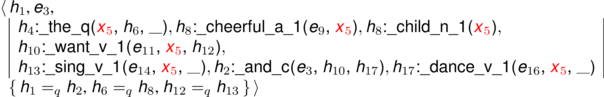
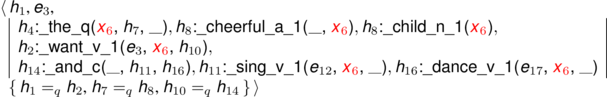
fix control example (as if i had grabbed the wrong reading initially)
git-svn-id: http://svn.delph-in.net/erg/tags/1214@25992 3df82f5b-d43a-0410-af33-fce91db48ec5

diff --git a/www/esd/essence/the-cheerful-children-wanted-to-sing-and-dance.tex b/www/esd/essence/the-cheerful-children-wanted-to-sing-and-dance.tex
@@ -19,29 +19,30 @@
 
 \siblock{\sh{1}}{\svar{e}{3}{}}{%
   \sep{\sh{4}}{\spred{\_the\_q\slnkc{0}{3}}}{%
-    \srole{ARG0}{\color{red}\svar{x}{5}{\svp{PERS}{3}, \svp{NUM}{pl}, \svp{IND}{+}}},
-    \srole{RSTR}{\svar{h}{6}{}},
-    \srole{BODY}{\srule{}}}, 
+    \srole{ARG0}{\color{red}\svar{x}{6}{\svp{PERS}{3}, \svp{NUM}{pl}, \svp{IND}{+}}},
+    \srole{RSTR}{\svar{h}{7}{}},
+    \srole{BODY}{\srule{}}}, %\\
   \sep{\sh{8}}{\spred{\_cheerful\_a\_1\slnkc{4}{12}}}{%
-    \srole{ARG0}{\svar{e}{9}{\svp{SF}{prop}, \svp{TENSE}{untensed}, \svp{MOOD}{indicative}, \svp{PROG}{-}, \svp{PERF}{-}}},
-    \srole{ARG1}{\color{red}\svar{x}{5}{}}}, 
+    \srole{ARG0}{\srule{}},
+    \srole{ARG1}{\color{red}\svar{x}{6}{}}}, %\\
   \sep{\sh{8}}{\spred{\_child\_n\_1\slnkc{13}{21}}}{%
-    \srole{ARG0}{\color{red}\svar{x}{5}{}}},\\
-  \sep{\sh{10}}{\spred{\_want\_v\_1\slnkc{22}{26}}}{%
-    \srole{ARG0}{\svar{e}{11}{\svp{SF}{prop}, \svp{TENSE}{pres}, \svp{MOOD}{indicative}, \svp{PROG}{-}, \svp{PERF}{-}}},
-    \srole{ARG1}{\color{red}\svar{x}{5}{}},
-    \srole{ARG2}{\svar{h}{12}{}}},\\
-  \sep{\sh{13}}{\spred{\_sing\_v\_1\slnkc{30}{34}}}{%
-    \srole{ARG0}{\svar{e}{14}{\svp{SF}{prop}, \svp{TENSE}{untensed}, \svp{MOOD}{indicative}, \svp{PROG}{-}, \svp{PERF}{-}}},
-    \srole{ARG1}{\color{red}\svar{x}{5}{}},
-    \srole{ARG2}{\srule{}}},
-  \sep{\sh{2}}{\spred{\_and\_c\slnkc{35}{38}}}{%
-    \srole{ARG0}{\svar{e}{3}{\svp{SF}{prop}, \svp{TENSE}{pres}, \svp{MOOD}{indicative}, \svp{PROG}{-}, \svp{PERF}{-}}},
-    \srole{ARG1}{\svar{h}{10}{}},
-    \srole{ARG2}{\svar{h}{17}{}}},
-  \sep{\sh{17}}{\spred{\_dance\_v\_1\slnkc{39}{45}}}{%
-    \srole{ARG0}{\svar{e}{16}{}},
-    \srole{ARG1}{\color{red}\svar{x}{5}{}},
+    \srole{ARG0}{\color{red}\svar{x}{6}{}}},\\
+  \sep{\sh{2}}{\spred{\_want\_v\_1\slnkc{22}{28}}}{%
+    \srole{ARG0}{\svar{e}{3}{\svp{SF}{prop}, \svp{TENSE}{past}, \svp{MOOD}{indicative}, \svp{PROG}{-}, \svp{PERF}{-}}},
+    \srole{ARG1}{\color{red}\svar{x}{6}{}},
+    \srole{ARG2}{\svar{h}{10}{}}},\\
+  \sep{\sh{14}}{\spred{\_and\_c\slnkc{37}{40}}}{%
+    \srole{ARG0}{\srule{}},
+    \srole{ARG1}{\svar{h}{11}{}},
+    \srole{ARG2}{\svar{h}{16}{}}},
+  \sep{\sh{11}}{\spred{\_sing\_v\_1\slnkc{32}{36}}}{%
+    \srole{ARG0}{\svar{e}{12}{\svp{SF}{prop}, \svp{TENSE}{untensed}, \svp{MOOD}{indicative}, \svp{PROG}{-}, \svp{PERF}{-}}},
+    \srole{ARG1}{\color{red}\svar{x}{6}{}},
+    \srole{ARG2}{\srule{}}}, %\\
+  \sep{\sh{16}}{\spred{\_dance\_v\_1\slnkc{41}{47}}}{%
+    \srole{ARG0}{\svar{e}{17}{}},
+    \srole{ARG1}{\color{red}\svar{x}{6}{}},
     \srole{ARG2}{\srule{}}}}
-  {\sqeq{1}{2}, \sqeq{6}{8}, \sqeq{12}{13}}
+  {\sqeq{1}{2}, \sqeq{7}{8}, \sqeq{10}{14}}
+
 \end{document}
